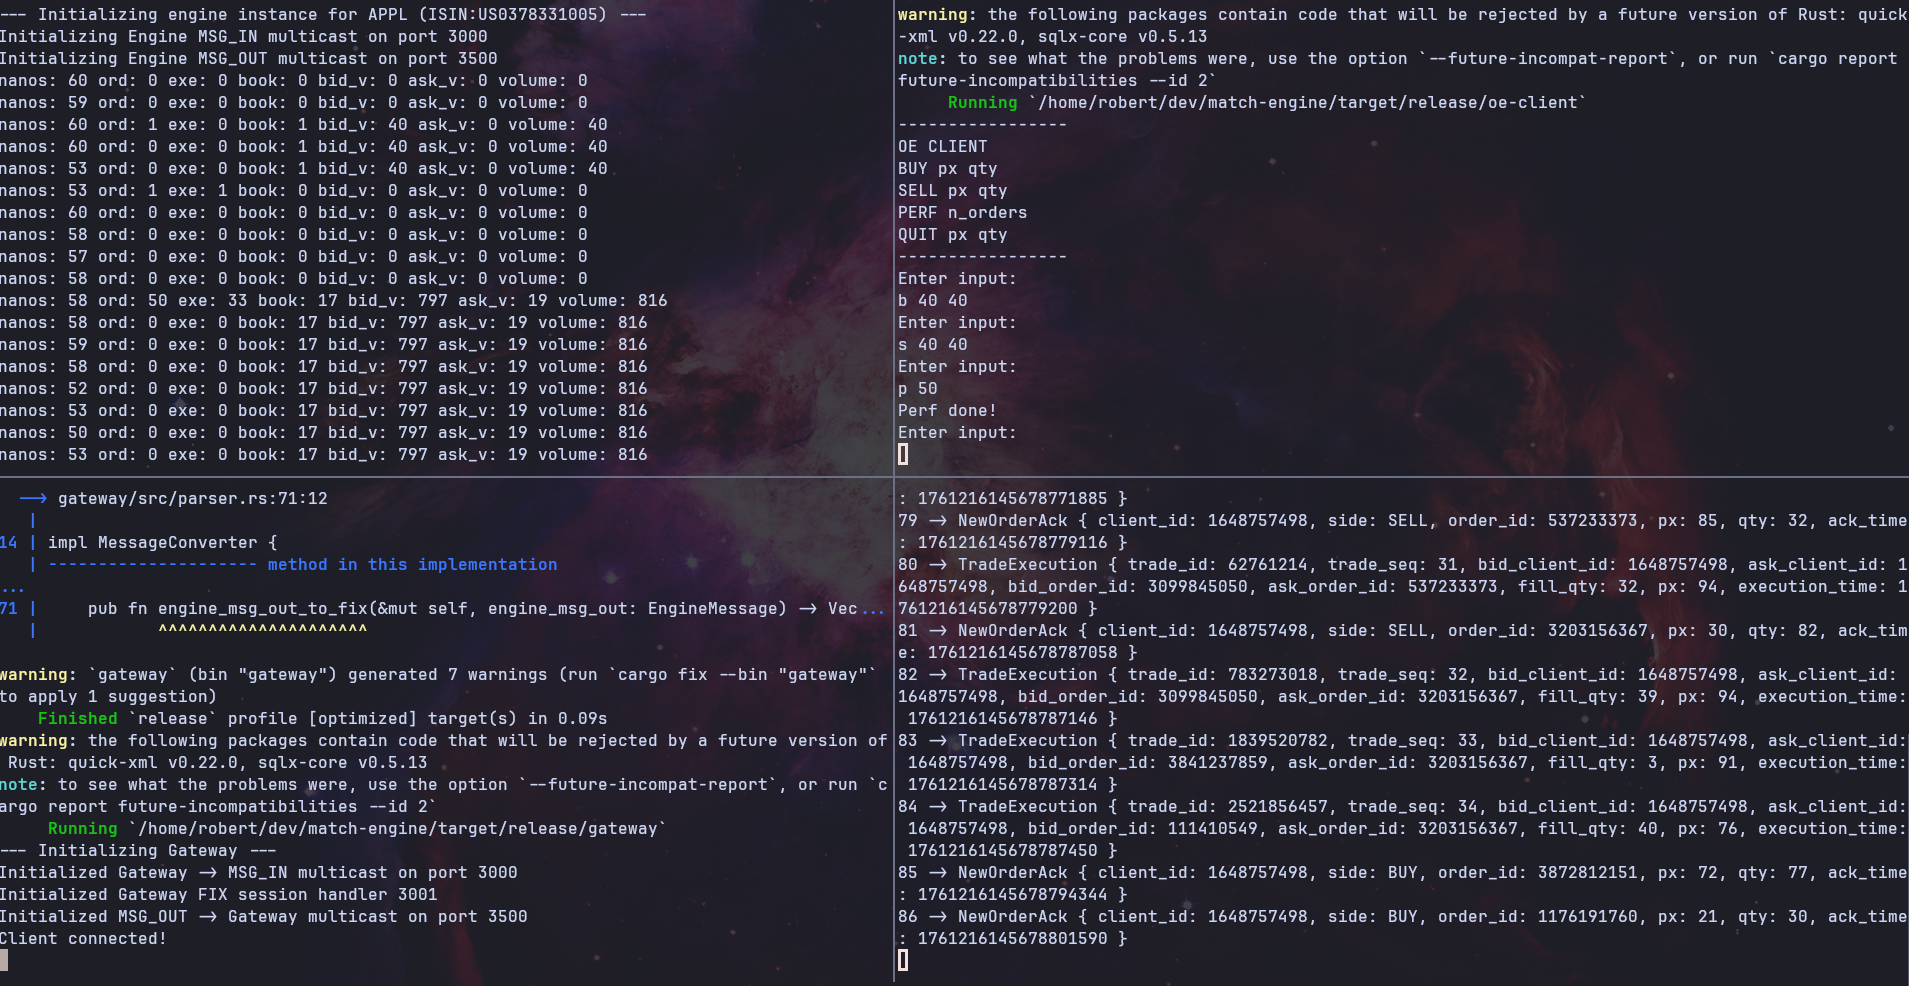
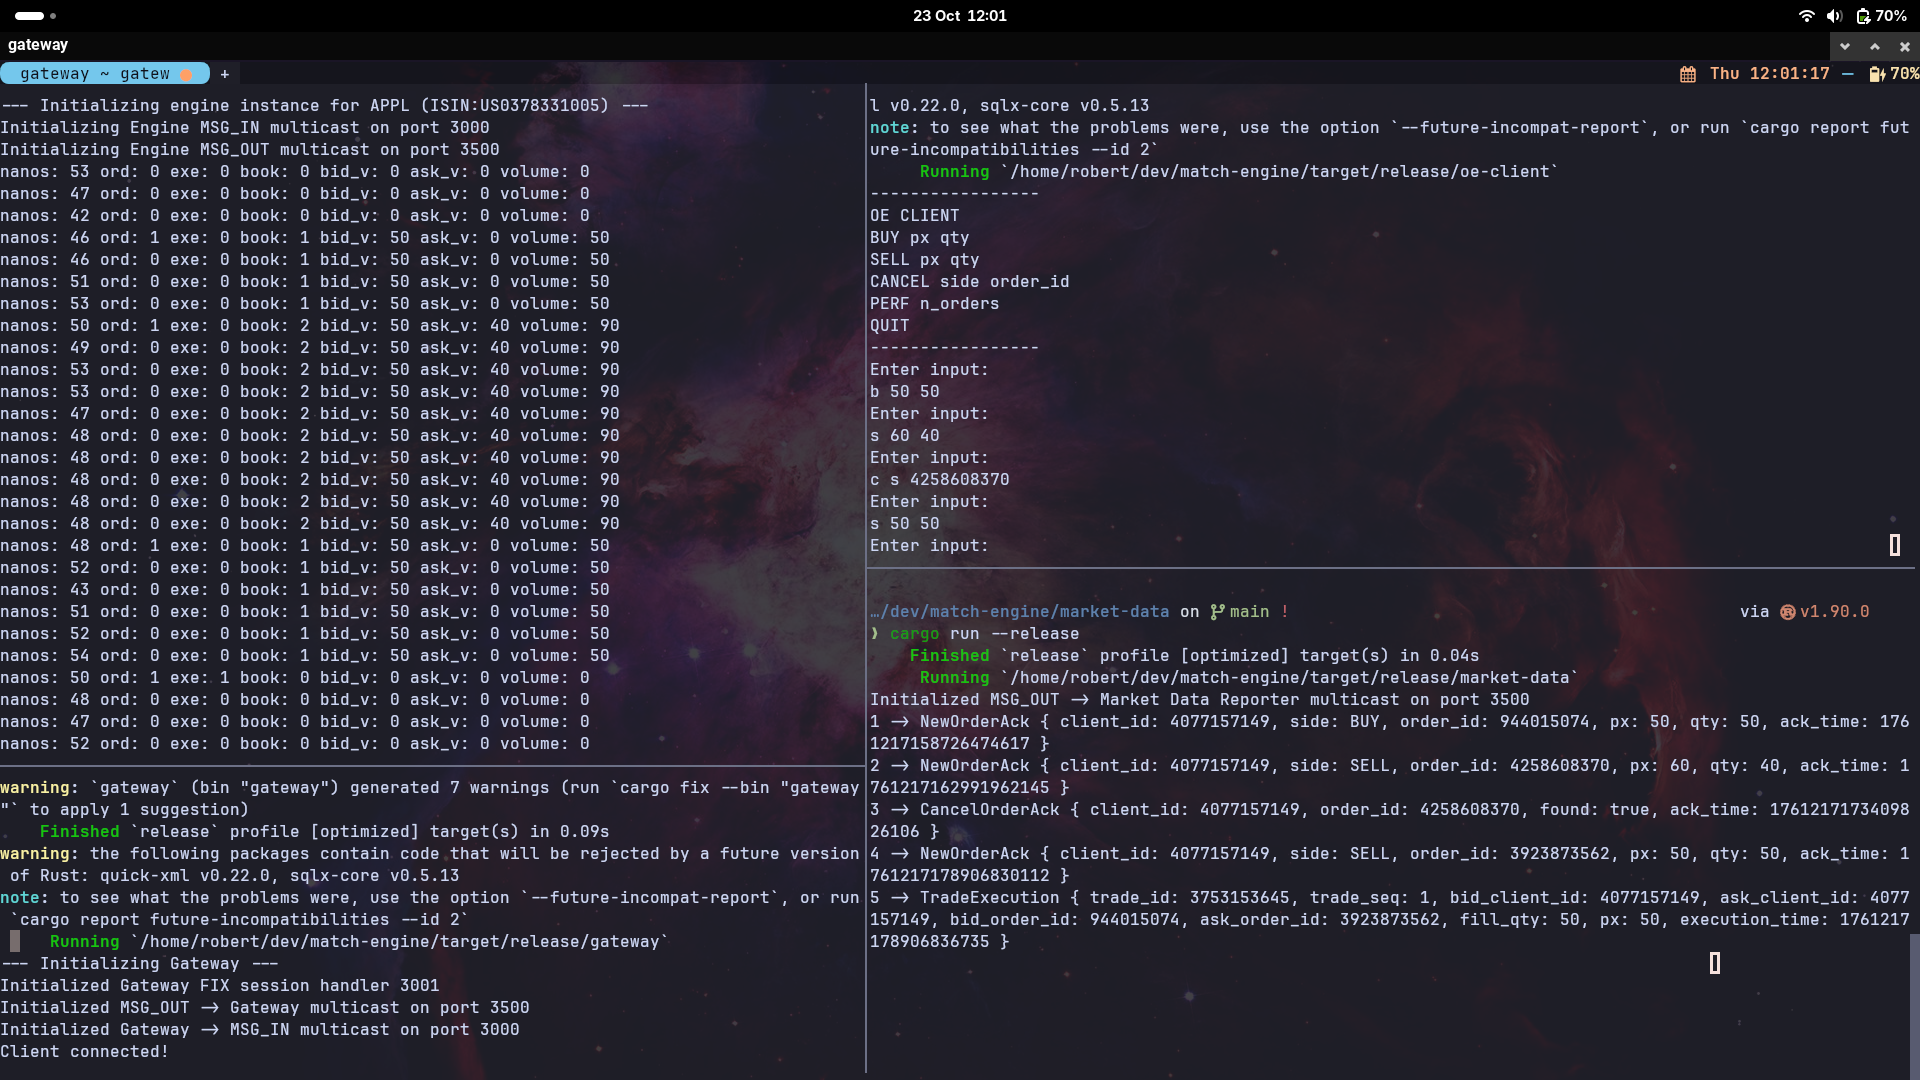
update README.md

Changed region(s): [[0.0, 0.0, 1.0, 1.0], [0.8036, 0.4564, 0.8345, 0.4868], [0.8036, 0.3651, 0.8345, 0.3955]]

diff --git a/oe-client/src/main.rs b/oe-client/src/main.rs
@@ -99,7 +99,7 @@ fn main() -> Result<(), Box<dyn Error>> {
     let oe_client_thread = thread::spawn(move || client_connection(receiver));
 
     println!("-----------------");
-    println!("OE CLIENT\nBUY px qty\nSELL px qty\nPERF n_orders\nQUIT px qty");
+    println!("OE CLIENT\nBUY px qty\nSELL px qty\nCANCEL side order_id\nPERF n_orders\nQUIT");
     println!("-----------------");
 
     let quit = false;

diff --git a/README.md b/README.md
@@ -35,8 +35,9 @@ Orders can be submitted via the oe_client
 OE CLIENT
 BUY px qty
 SELL px qty
+CANCEL side order_id
 PERF n_orders
-QUIT px qty
+QUIT
 ```
 
 The engine will ACK new orders & report executions (both sides get an execution & the oe_client can currently self
